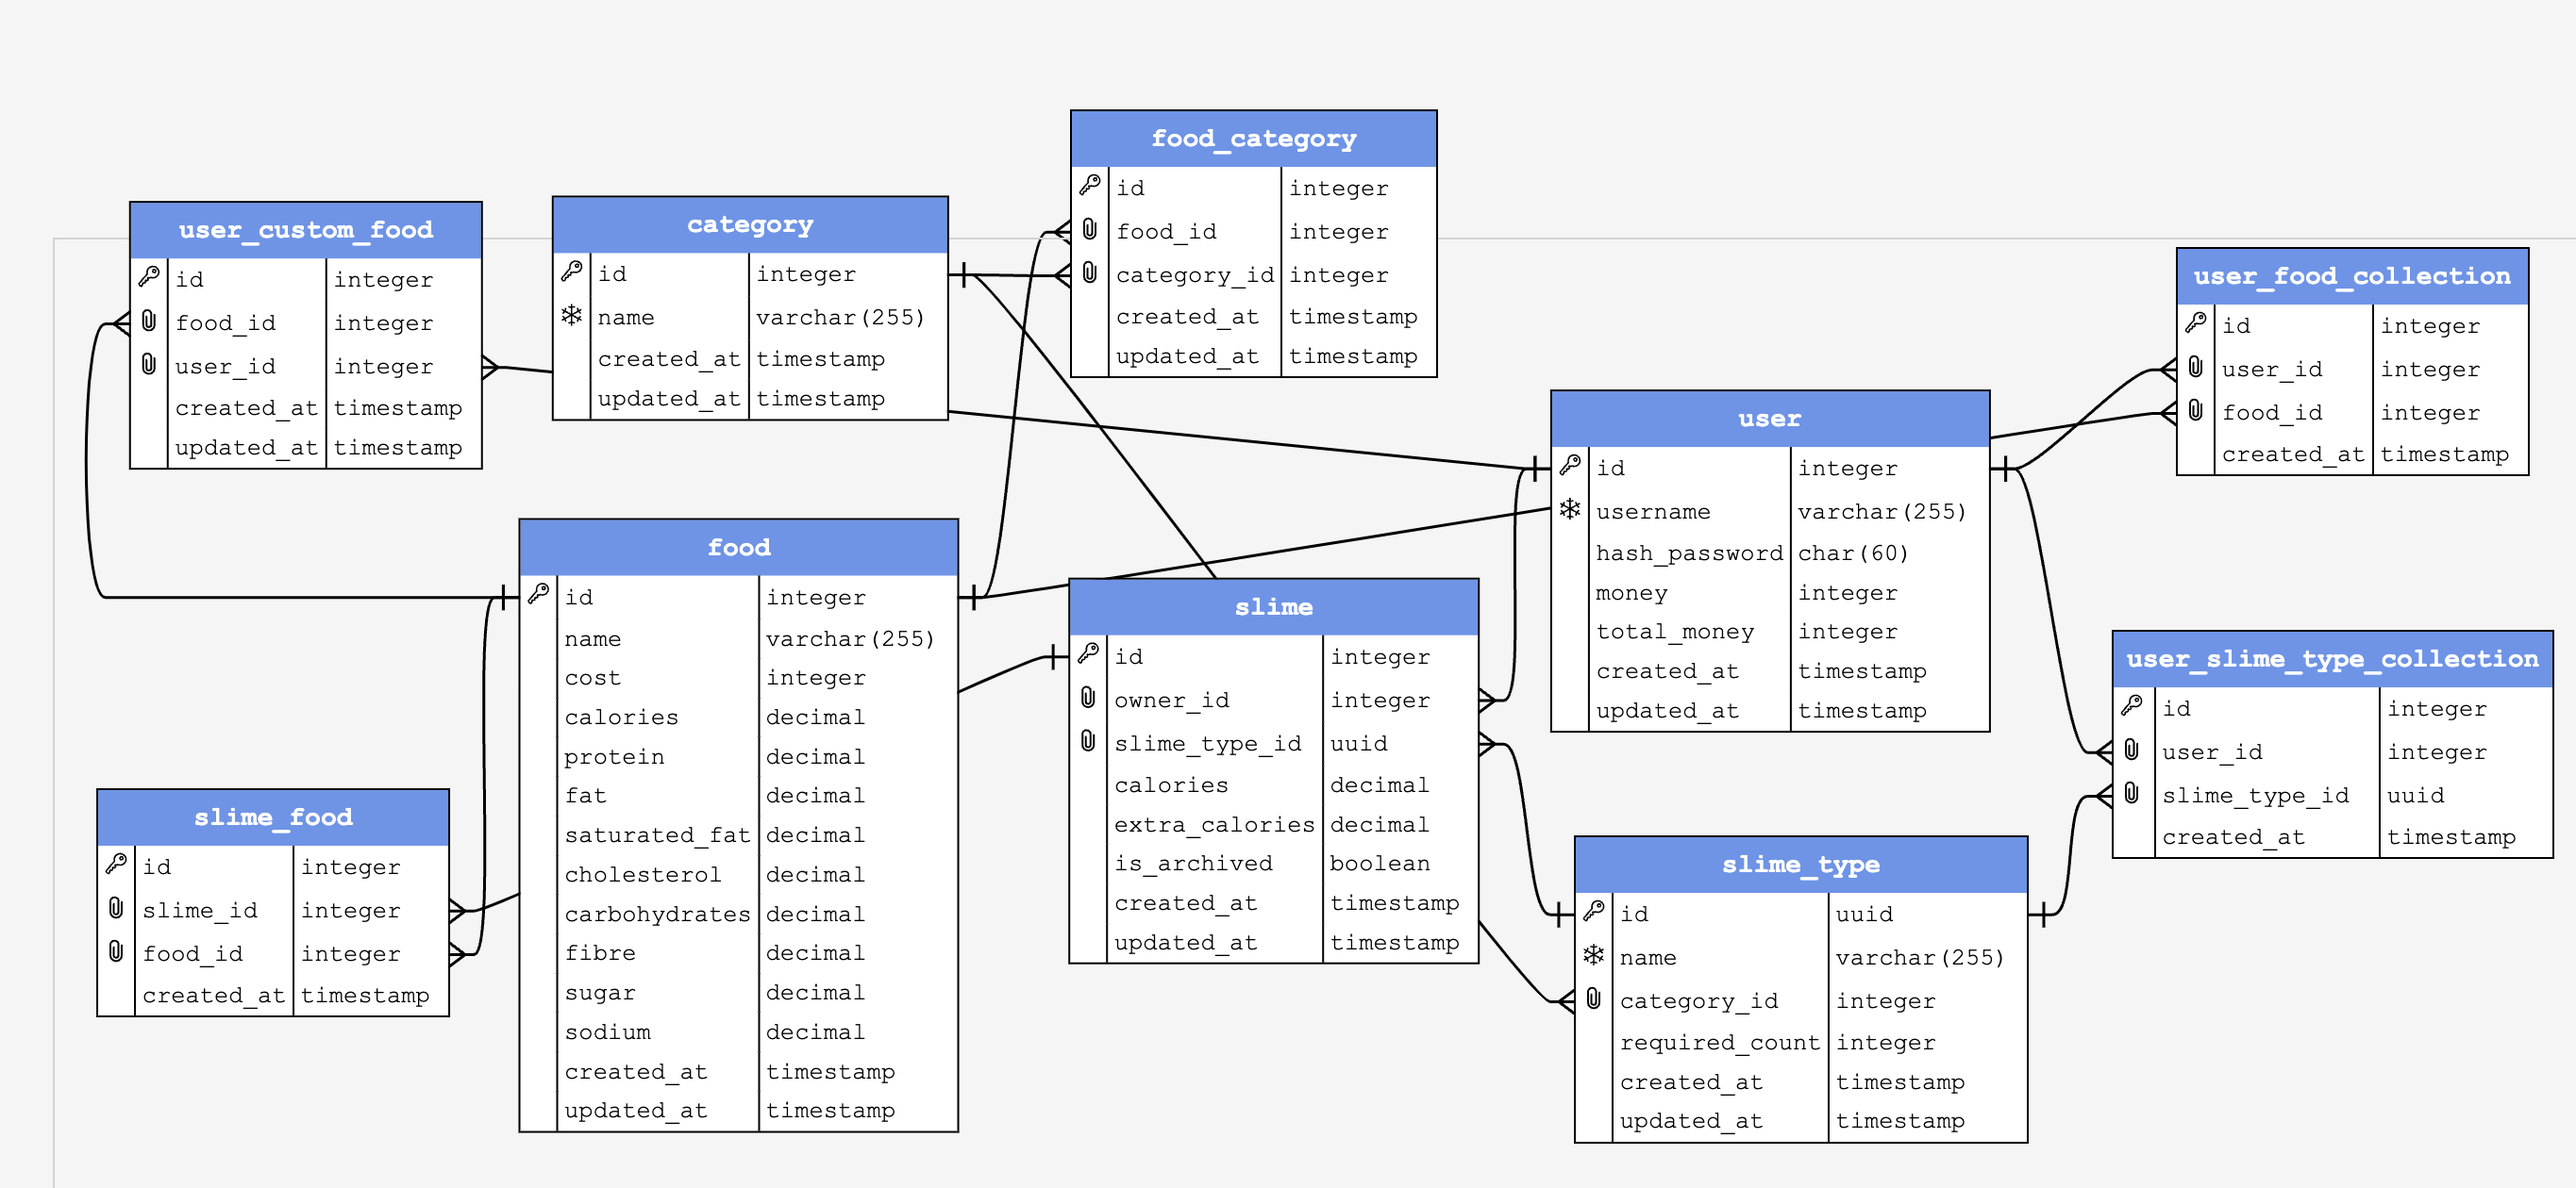
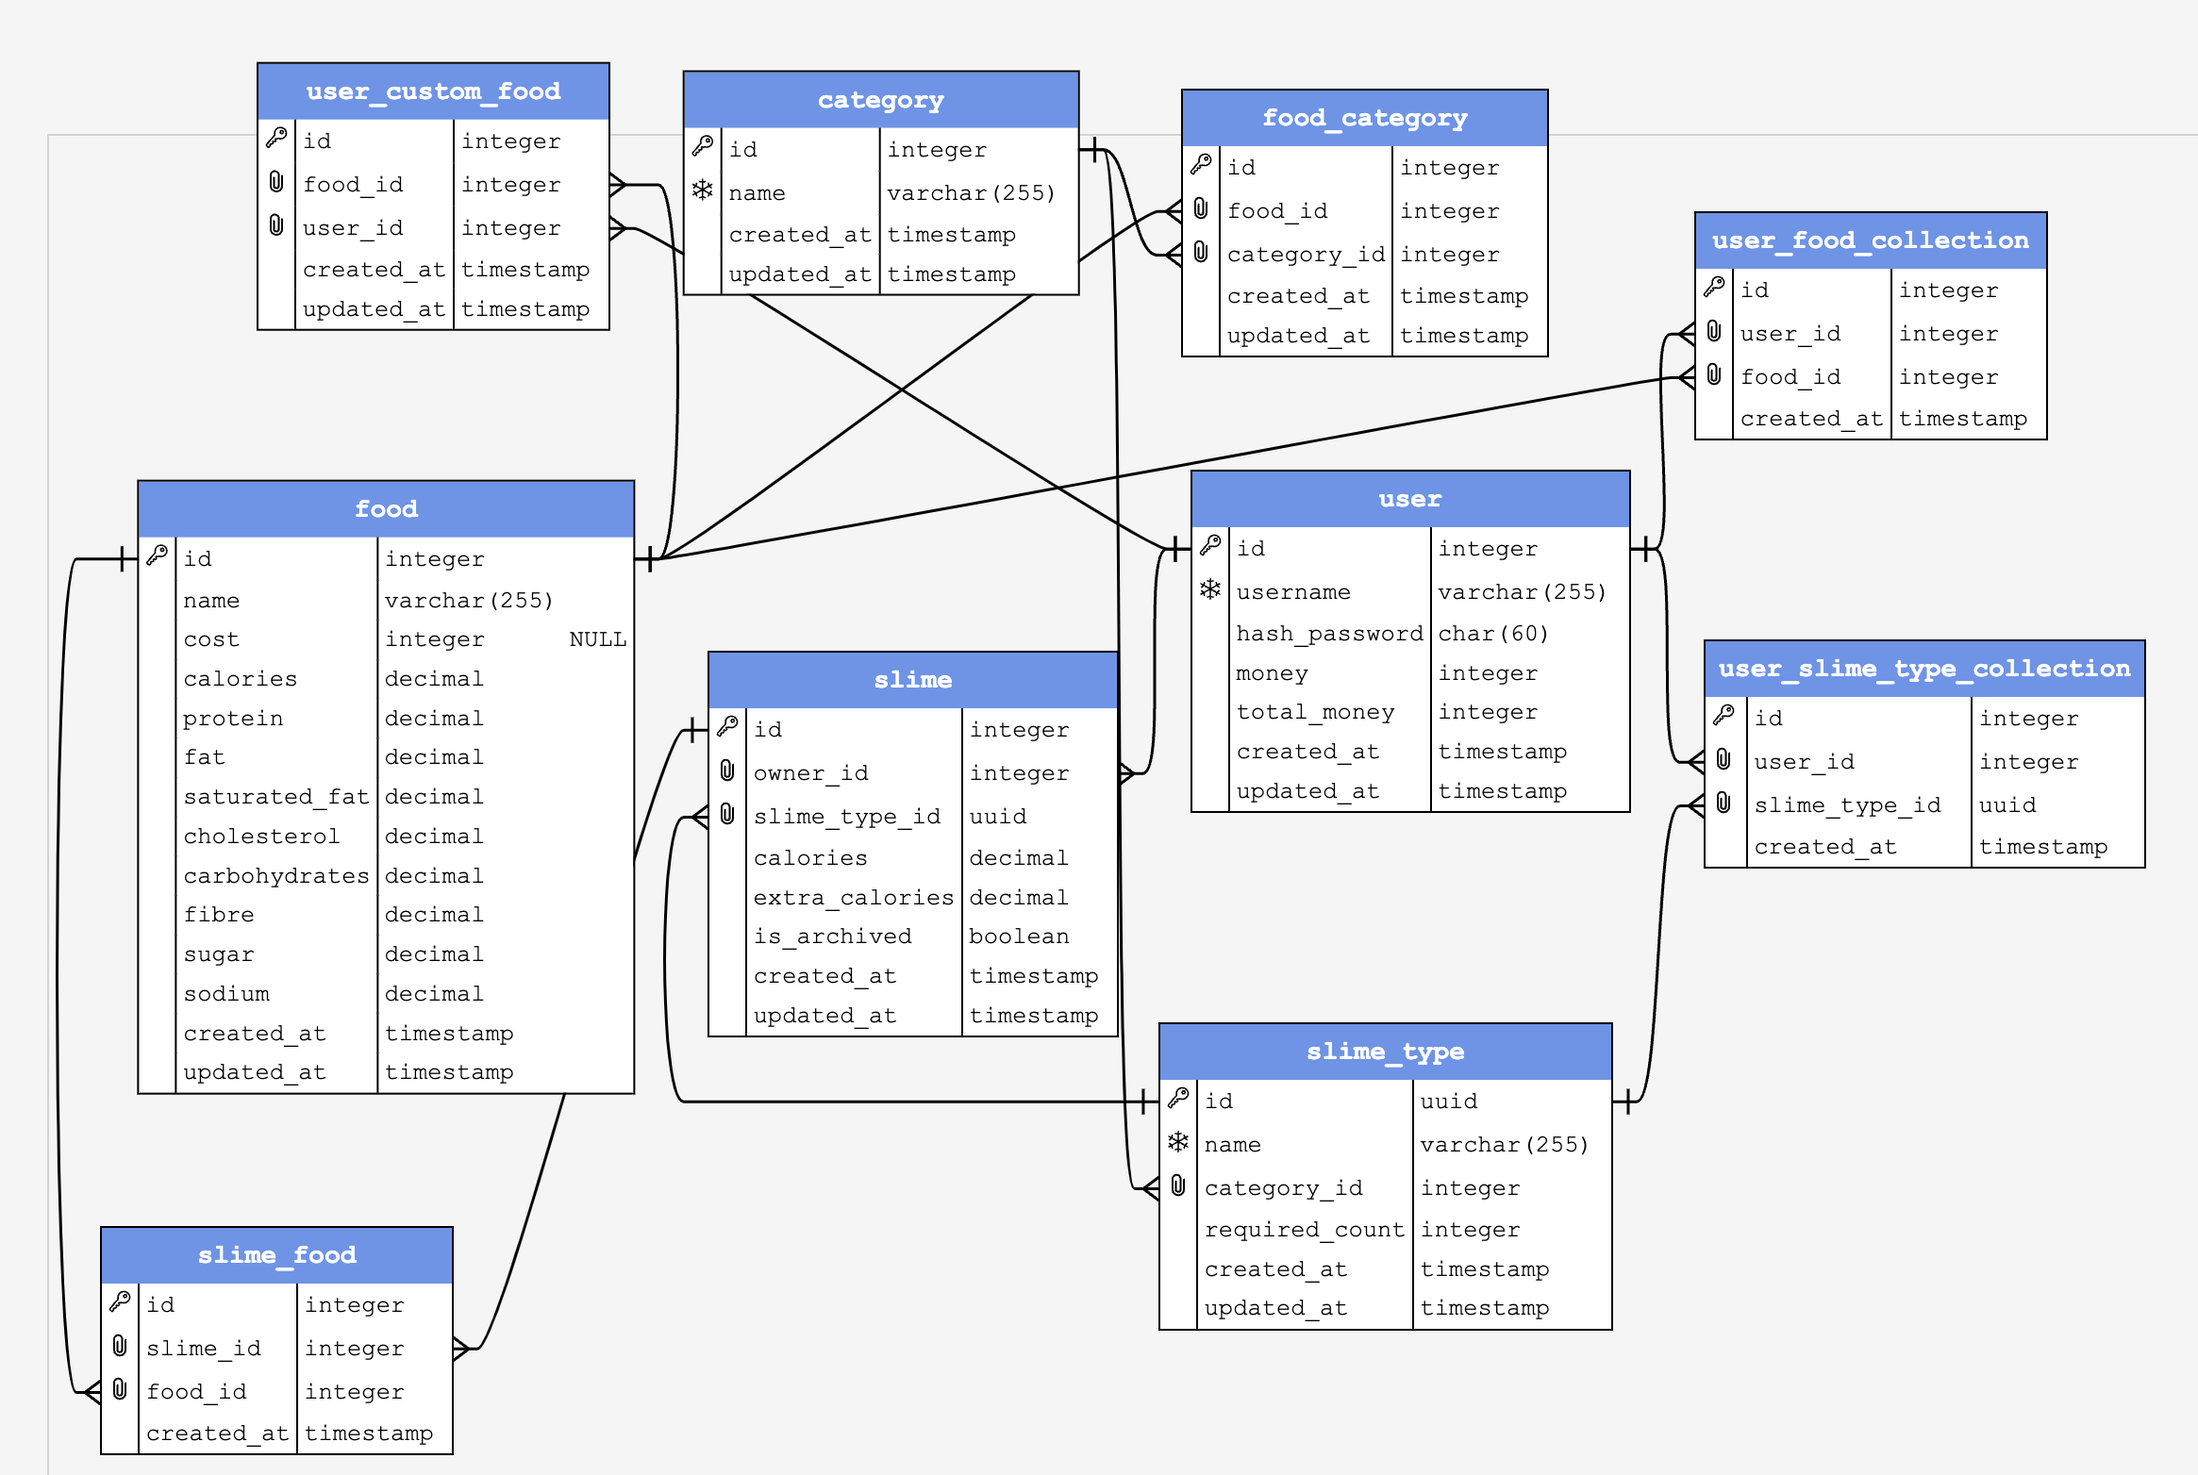
chore: food cost should be nullable

Changed region(s): [[0.0309, 0.031, 1.0, 0.9905], [0.5562, 0.5881, 0.5871, 0.65]]

diff --git a/node_server/src/db/migrations/20231105054743_alter-food.ts b/node_server/src/db/migrations/20231105054743_alter-food.ts
@@ -1,0 +1,14 @@
+import { Knex } from "knex";
+
+export async function up(knex: Knex): Promise<void> {
+  await knex.schema.alterTable("food", (table) => {
+    table.integer("cost").nullable().checkPositive("cost_check").alter();
+  });
+}
+
+export async function down(knex: Knex): Promise<void> {
+  await knex.schema.alterTable("food", (table) => {
+    table.dropChecks("cost_check");
+    table.integer("cost").notNullable().alter();
+  });
+}

diff --git a/node_server/src/db/seeds/01-food.ts b/node_server/src/db/seeds/01-food.ts
@@ -13,7 +13,7 @@ export async function seed(knex: Knex): Promise<void> {
 
     // Inserts seed entries
     const food = nutritionToNumber(
-      await DbUtils.csvToTable<Omit<Food, GeneralOmitField | "created_by">>(
+      await DbUtils.csvToTable<Omit<Food, GeneralOmitField>>(
         path.join(__dirname, "..", "/food.csv")
       )
     );

diff --git a/node_server/models/dbModels.ts b/node_server/models/dbModels.ts
@@ -42,7 +42,7 @@ export type Food = {
   id?: null | number;
   name: string;
   user?: User;
-  cost: number;
+  cost?: null | number;
   calories: number;
   protein: number;
   fat: number;
